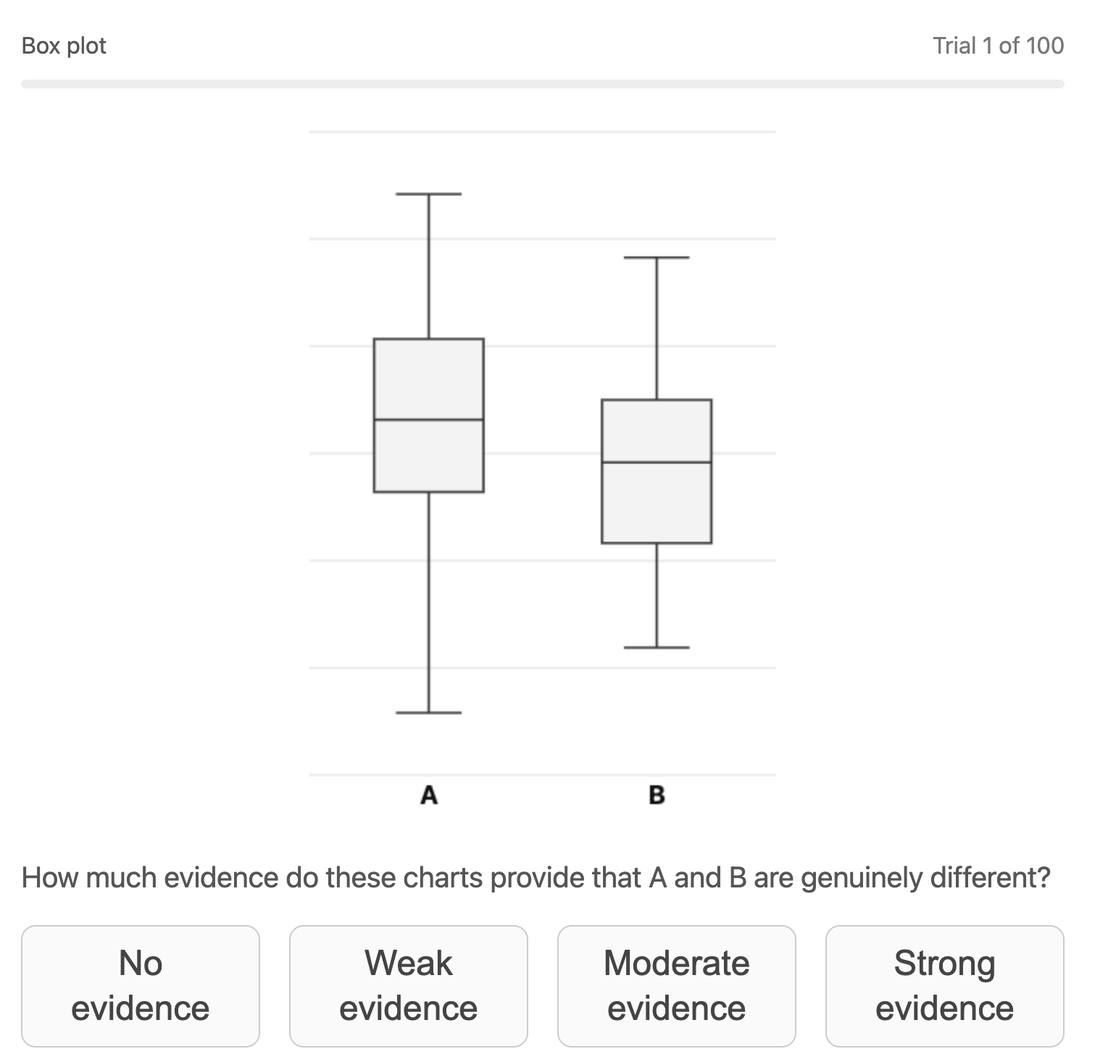
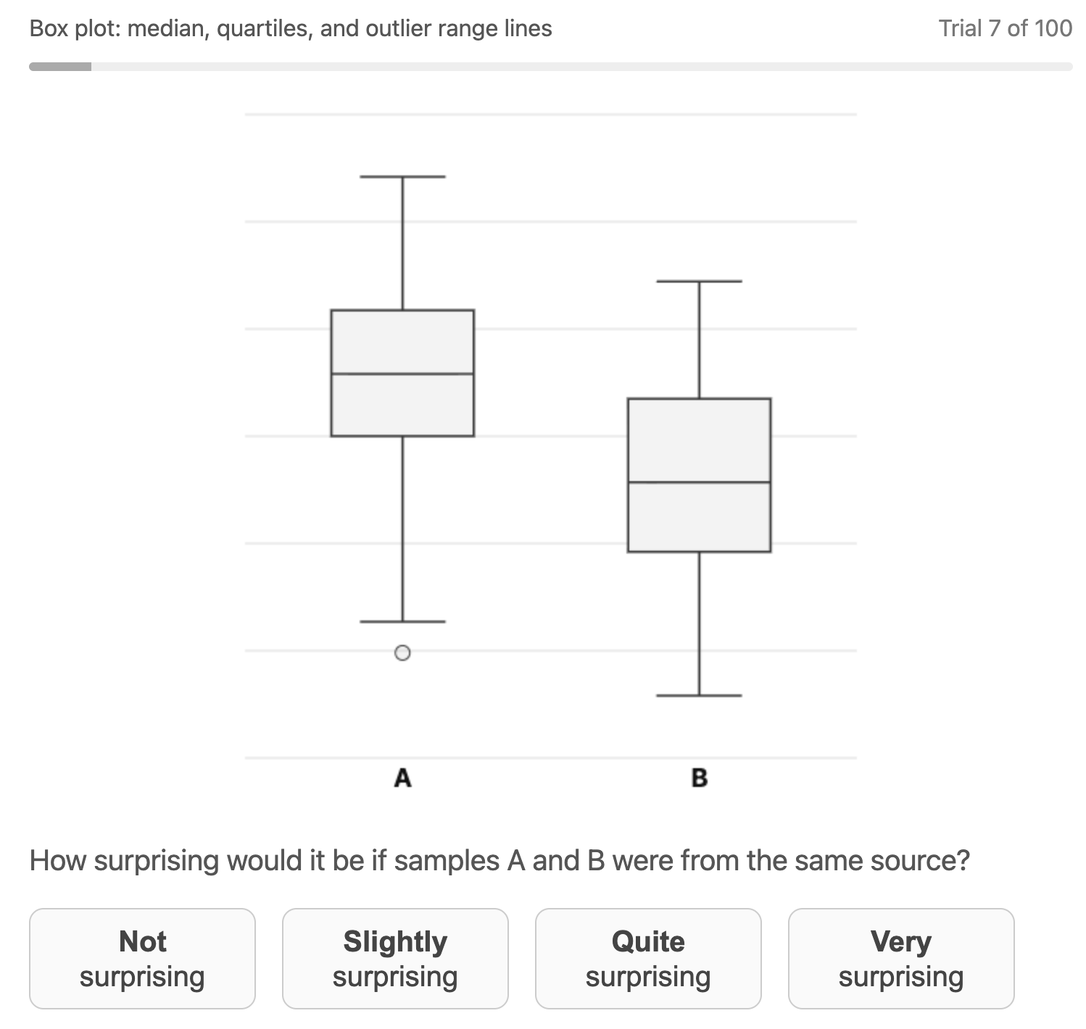
update design doc

diff --git a/doc/Design.md b/doc/Design.md
@@ -16,7 +16,6 @@ Author: Xan Gregg using Claude Code
 - For each chart type and signal type, how does the rating relate to the signal magnitude? Especially, is there a limit of perceptibility for each combination?
 - Do overlaid dots help or hinder perception of differences?
 - Do box plots detect bimodality as well as violin plots?
-- Without any hinting about outliers, will participants ignore them?
 
 There are interesting questions for almost any combination of factors.
 
@@ -33,74 +32,72 @@ Each trial presents a single canvas containing two statistical charts of the sam
 
 ### Chart Types
 
-Four chart type categories are included. Each participant is randomly assigned one variant from each category; the assigned variant is fixed for the entire session.
+Four chart type categories are included. Within each category, variants are either *solo* (appears alone; not mixed with other variants) or *non-solo* (all non-solo variants in a category are shown together). Which variant(s) a participant sees is randomly determined: if the randomly selected first variant is solo, only that variant is shown; otherwise all non-solo variants in the category are included. Solo vs. non-solo assignment is a between-subjects factor for categories where both types exist.
 
-| Category | Variant | Description                                                                                                                                                                                 |
-|----------|---------|---------------------------------------------------------------------------------------------------------------------------------------------------------------------------------------------|
-| Box | Box plot | Middle 50% shown as a rectangle with a median line. Whiskers extend to values within 1.5× the IQR; more extreme values shown as outlier dots.                                               |
-| Box | Box plot with dots | Same as box plot, with all individual data values overlaid as dots.                                                                                                                         |
-| Box | Range bar | Middle 50% shown as a rectangle with a wide median line. Thin lines extend to the full data range (no outlier trimming).                                                                    |
-| Bands | Central bands (66%, 90%, 99%) with median | Nested quantile bands: darkest contains middle 66% of values, next 90%, outer 99%. Median line shown. Outliers are not shown.                                                               |
-| Bands | Density bands (50%, 90%, 99%) with mode | HDR bands: darkest contains densest 50% of values, next 90%, outer 99%. Mode line shown; values outside the 99% band shown as dots. Bands may be disconnected for multimodal distributions. |
-| Bands | Density bands (5%, 50%, 90%) | HDR bands: darkest contains densest 5%, next 50%, outer 90%. Values outside the 90% band shown as dots. Bands may be disconnected.                                                          |
-| Bands | Density bands (33%, 67%, 100%) | HDR bands: darkest contains densest 33%, next 67%, outer band covers all remaining values. Bands may be disconnected.                                                                       |
-| Dot | Dot plot | Each dot represents one data value; dots are spread horizontally to reduce overlap (according to jitter factor).                                                                            |
-| Dot | Dot plot with median | Same as dot plot, with a horizontal line marking the median.                                                                                                                                |
-| Violin | Violin plot | Smooth symmetric outline traces the distribution shape; width encodes local density.                                                                                                        |
-| Violin | Violin plot with box | Violin outline with a box plot overlaid inside showing the median and middle 50% range.                                                                                                     |
-| Violin | Violin plot with dots | Violin outline with individual data values overlaid as dots within the shape.                                                                                                               |
-| Violin | Violin plot with median | Violin outline with a line marking the median.                                                                                                                                              |
+| Category | Variant | Solo | Description |
+|----------|---------|------|-------------|
+| Box | Box plot | — | Middle 50% shown as a rectangle with a median line. Whiskers extend to values within 1.5× the IQR; more extreme values shown as outlier dots. |
+| Box | Box plot with dots | — | Same as box plot, with all individual data values overlaid as dots. |
+| Box | Range bar | solo | Middle 50% shown as a rectangle with a wide median line. Thin lines extend to the full data range (no outlier trimming). |
+| Bands | Central bands (66%, 90%, 99%) with median | solo | Nested quantile bands: darkest contains middle 66% of values, next 90%, outer 99%. Median line shown. Outliers beyond 99% are not shown. |
+| Bands | Density bands (50%, 90%, 99%) with mode | solo | HDR bands: darkest contains densest 50% of values, next 90%, outer 99%. Mode line shown; values outside the 99% band shown as dots. Bands may be disconnected for multimodal distributions. |
+| Bands | Density bands (5%, 50%, 90%) | solo | HDR bands: darkest contains densest 5%, next 50%, outer 90%. Values outside the 90% band shown as dots. Bands may be disconnected. |
+| Bands | Density bands (33%, 67%, 100%) | solo | HDR bands: darkest contains densest 33%, next 67%, outer band covers all remaining values. Bands may be disconnected. |
+| Dot | Dot plot | — | Each dot represents one data value; dots are spread to reduce overlap (see Jitter). |
+| Dot | Dot plot with median | — | Same as dot plot, with a line marking the median. |
+| Violin | Violin plot | — | Smooth symmetric outline traces the distribution shape; width encodes local density. |
+| Violin | Violin plot with box | — | Violin outline with a box plot overlaid inside showing the median and middle 50% range. |
+| Violin | Violin plot with dots | — | Violin outline with individual data values overlaid as dots within the shape. |
+| Violin | Violin plot with median | — | Violin outline with a line marking the median. |
 
-All four chart type categories appear for every participant (within-subjects); which specific variant is shown within each category is randomly assigned (between-subjects).
+Since dot and violin categories have no solo variants, all participants see both dot variants and all four violin variants. For box, a participant sees either range bar alone or both non-solo box variants. For bands, exactly one solo variant is randomly selected per participant.
+
+### Trial Allocation
+
+Each participant completes exactly 100 trials. Trials are allocated across chart variants subject to two constraints: each chart type *category* receives at least 20 trials (`MIN_CATEGORY_TRIALS`), and each individual *variant* receives at most 20 trials (`MAX_VARIANT_TRIALS`). After the guaranteed minimums are assigned (balanced across variants within each category), the remaining trials are distributed by randomly sampling from eligible variants (those under the 20-trial cap). This gives multi-variant categories proportionally more total trials while keeping individual variant counts variable across participants.
 
 ### Jitter Types
 
-Jitter controls how dots are spread horizontally (assuming vertical charts of ease of this description) to reduce overlap. One jitter method is randomly assigned per participant and applied consistently to all dot-based chart types (including box or violin plots with overlaid dots).
+Jitter controls how dots are spread to reduce overlap in dot-based chart types (dot plots, and box or violin plots with overlaid dots). The jitter method is assigned **per trial** from a balanced pool: the four jitter types are cycled across all conditions and shuffled, so each method appears approximately equally often across all trials. A separate session-level jitter assignment (drawn once per participant) is used only for training page displays.
 
-| Jitter | Description                                                                                                                                             |
-|--------|---------------------------------------------------------------------------------------------------------------------------------------------------------|
+| Jitter | Description |
+|--------|-------------|
 | Random | Each dot is placed at a uniform random horizontal offset within a fixed half-width, with a small number of candidate positions tried to reduce overlap. |
-| Wilkinson | Dots at similar values are binned by proximity, then stacked symmetrically within each bin. Not precisely Wilkinson's algorithm,                        |
-| Beeswarm | Dots are placed one at a time, in ascending value order, at the horizontal position closest to center that does not overlap any already-placed dot.     |
-| Density random | Like random, but the horizontal range available to each dot scales with the local KDE density, keeping dots within the violin shape.                    |
+| Wilkinson | Dots at similar values are binned by proximity, then stacked symmetrically within each bin. Not precisely Wilkinson's algorithm. |
+| Beeswarm | Dots are placed one at a time, in ascending value order, at the horizontal position closest to center that does not overlap any already-placed dot. |
+| Density random | Like random, but the horizontal range available to each dot scales with the local KDE density, keeping dots within the violin shape. |
 
 ### Data Distributions
 
 The survey app supports up to three base distributions to generate the raw data for each trial. However, for the current study, only the normal distribution is used.
 
 | Distribution | Proportion of trials | Notes |
-|---|------------------|---|
-| Normal (Gaussian) | 100% (100/100)   | Standard parameterization |
-| Lognormal | 0% (0/100)       | Right-skewed; rendered on normalized scale |
-| Binomial | 0% (0/100)       | n = 10, p = 0.2 base; normalized to ~N(0,1) scale |
+|---|---|---|
+| Normal (Gaussian) | 100% (100/100) | Standard parameterization |
+| Lognormal | 0% (0/100) | Right-skewed; rendered on normalized scale |
+| Binomial | 0% (0/100) | n = 10, p = 0.2 base; normalized to ~N(0,1) scale |
 
 ### Signals
 
 A *signal* is a modification applied to one of the two groups to create a potentially detectable difference. Each trial draws one signal from the applicable distribution's signal pool using weighted random sampling. The null signal (no modification) is included in each pool. Signals with weight 0 are defined but excluded from sampling.
 
-Each signal has a *level* (null / weak / moderate / strong) used for alignment scoring on the completion page.
+**Normal distribution — 11 active signal types (weight > 0), total active weight = 85:**
 
-**Normal distribution — 15 active signal types (weight > 0):**
+| Signal type | Parameters | Level | Weight | Expected trials |
+|---|---|---|---|---|
+| Null | — | null | 10 | ~12 |
+| Location shift | Δ = 0.5 SD | weak | 5 | ~6 |
+| Location shift | Δ = 0.8 SD | moderate | 10 | ~12 |
+| Location shift | Δ = 1.1 SD | strong | 10 | ~12 |
+| Spread change | Factor = 1.5× | moderate | 10 | ~12 |
+| Spread change | Factor = 1.8× | strong | 10 | ~12 |
+| Skew | Skew-normal α = 5; median-centered, spread-normalized | moderate | 5 | ~6 |
+| Skew | Skew-normal α = 7; median-centered, spread-normalized | strong | 5 | ~6 |
+| Bimodal | Separation = 3.0 SD | moderate | 8 | ~9 |
+| Bimodal | Separation = 4.0 SD | strong | 8 | ~9 |
+| Bimodal | Separation = 5.0 SD | strong | 4 | ~5 |
 
-| Signal type | Parameters | Level | Weight |
-|---|---|---|---|
-| Null | — | null | 12 |
-| Location shift | Δ = 0.5 SD | weak | 5 |
-| Location shift | Δ = 0.8 SD | moderate | 10 |
-| Location shift | Δ = 1.1 SD | strong | 10 |
-| Location shift | Δ = 1.4 SD | strong | 5 |
-| Spread change | Factor = 1.2× | weak | 5 |
-| Spread change | Factor = 1.5× | moderate | 10 |
-| Spread change | Factor = 1.8× | strong | 5 |
-| Skew | Skew-normal α = 5; median-centered, spread-normalized (SD ≈ 1) | moderate | 5 |
-| Skew | Skew-normal α = 7; median-centered, spread-normalized (SD ≈ 1) | strong | 5 |
-| Bimodal | Separation = 2.0 SD | weak | 8 |
-| Bimodal | Separation = 3.0 SD | moderate | 8 |
-| Bimodal | Separation = 4.0 SD | strong | 8 |
-| Bimodal | Separation = 5.0 SD | strong | 2 |
-| Outlier | 1 high value at 4.0 SD magnitude | weak | 5 |
-
-**Lognormal distribution — 10 signal types:**
+**Lognormal distribution — 10 signal types (inactive, weight defined for future use):**
 
 | Signal type | Parameters |
 |---|---|
@@ -108,7 +105,7 @@ Each signal has a *level* (null / weak / moderate / strong) used for alignment s
 | Location | Ratio = 1.2, 1.3, 1.4, 1.5, 1.6 (5 levels) |
 | Spread | Factor = 1.2×, 1.4×, 1.6×, 1.8× (4 levels) |
 
-**Binomial distribution — 5 signal types:**
+**Binomial distribution — 5 signal types (inactive):**
 
 | Signal type | Parameters |
 |---|---|
@@ -117,22 +114,13 @@ Each signal has a *level* (null / weak / moderate / strong) used for alignment s
 
 ### Signal Assignment
 
-Signals are assigned using weighted random sampling. A pool of exactly 100 signal instances is constructed via the largest-remainder method applied to each signal's weight, then shuffled. This guarantees the total count per signal type is proportional to its weight, with each signal appearing either ⌊100 × w/W⌋ or ⌈100 × w/W⌉ times (where W = sum of all active weights = 103 for normal). Approximate expected counts for the normal distribution:
-
-| Signal type | Expected trials |
-|---|---|
-| Null | ~12 |
-| Location (all levels) | ~29 |
-| Spread (all levels) | ~19 |
-| Skew (all levels) | ~10 |
-| Bimodal (all levels) | ~25 |
-| Outlier | ~5 |
+Signals are assigned using weighted random sampling. A pool of exactly 100 signal instances is constructed via the largest-remainder method applied to each signal's weight, then shuffled. This guarantees the total count per signal type is proportional to its weight, with each signal appearing either ⌊100 × w/W⌋ or ⌈100 × w/W⌉ times.
 
 Signals are **not balanced within chart type**: a given signal may pair with one chart type more than another within a session, though this averages out across participants.
 
 ### Signal Group
 
-"Signal group" indicates which of the two displayed groups (A or B) receives the signal. Exactly 50 of each participant's 100 trials assign the signal to group A; 50 assign it to group B. This balance is enforced globally across all 100 trials via a shuffled binary assignment vector. Balance within chart type or distribution subsets is not explicitly enforced but is expected to be approximately 50/50 given 25 trials per chart type.
+"Signal group" indicates which of the two displayed groups (A or B) receives the signal. Exactly 50 of each participant's 100 trials assign the signal to group A; 50 assign it to group B. This balance is enforced globally across all 100 trials via a shuffled binary assignment vector.
 
 ### Participant Background
 
@@ -152,16 +140,17 @@ Before the main study begins, participants complete a brief self-report question
 
 All participants complete the same onboarding sequence before their first trial. The sequence is not adaptive and cannot be skipped. Steps proceed in this order:
 
-1. **Background questionnaire** — the familiarity and frequency questions above. The Continue button is disabled until all questions are answered.
-2. **Understanding Sampling (3 pages)** — introduces the concept that each chart shows a random sample from a larger source. Page 1 shows one source and one sample; page 2 shows one source and three samples to illustrate within-source variation; page 3 shows two sources with one sample each to illustrate between-source differences.
-3. **Chart Types** — an overview page showing thumbnail examples of all four assigned chart types, followed by one dedicated page per chart type explaining how to read it, with an example pair drawn from the same source. The training is only for the variants of the chart type that the participant will see in the study.
+1. **Background questionnaire** — the familiarity questions above. The Continue button is disabled until all questions are answered.
+2. **Understanding Sampling (3 pages)** — introduces the concept that each chart shows a random sample from a larger source. Page 1 shows one source and one sample; page 2 shows one source and three samples to illustrate within-source variation; page 3 shows two sources side by side followed by one sample from each, to illustrate between-source differences.
+3. **Chart Types** — an overview page showing thumbnail examples of all assigned chart type categories, followed by one dedicated page per unique chart type explaining how to read it, with an example pair drawn from the same source. For solo variants, the training shows the assigned variant. For non-solo variants, training shows the *plain* variant (marked `plain: true` in the catalog), which is the simplest form of that chart type. Pages are ordered to match the sequence in which each chart type first appears in the participant's randomized trial list.
 4. **Response scale** — explains the 4-point rating scale and its intended meaning.
 
 <figure style="text-align: center">
     <img src="../images/sampling2.png" width="400" alt="Second sampling training page">
-    <figcaption>Second sampling training page.</figcaption>                
-</figure>   
-The chart-type training pages are ordered to match the sequence in which each chart type first appears in that participant's randomized trial list. Additionally, each trial page shows a brief summary of the chart type details, such as specific cut-offs in use for band charts.
+    <figcaption>Second sampling training page.</figcaption>
+</figure>
+
+Each trial page shows a brief description of the specific chart variant in use (e.g., band cutoff percentages).
 
 ---
 
@@ -180,58 +169,78 @@ Participants respond on a 4-point ordinal scale:
 
 Response buttons are suppressed for 500 ms after each trial begins to reduce accidental and impulsive responses. Additionally, the button's hover highlight is disabled until the mouse is moved to reduce anchoring bias.
 
-In addition to the response and design factors, key summary statistics for each trial are also recorded. Though the entire trial data sets can be recovered from the seed, these measures are a convenience for analysis and reporting purposes. An analysis may prefer to use, for instance, the actual mean difference rather than the signal magnitude.
+In addition to the response and design factors, the full A and B data sets are stored with each trial result as `a_data` and `b_data` — integer arrays of length 50, scaled to 0–1000 over a ±5 SD range (invertible: value = i/100 − 5). Though the data sets can also be regenerated deterministically from the trial seed, storing them directly simplifies analysis.
 
 ---
 
 ## Design Structure
 
 ### Between-Subjects Factors
-Each participant is assigned a random combination of the following factors. The idea is to reduce training and ambiguity (some variants have similar appearances but different meanings).
 
 | Factor | Levels | Notes |
 |--------|--------|-------|
-| Chart variant | 1 per category, randomly assigned | Specific rendering option within each chart type category |
-| Display orientation | Vertical, Horizontal | Axis orientation is transposed between conditions |
-| Jitter method | Random, Wilkinson, Beeswarm, Density-random | Applies to dot plot rendering only |
+| Chart variant(s) | 1–2 per category, randomly assigned | Solo variants appear alone; non-solo variants appear together within a category |
 
 ### Within-Subjects Factors
 
 Each participant completes 100 trials presented in randomized order.
 
-| Factor | Levels | Trials per level          |
-|--------|--------|---------------------------|
-| Chart type | 4 | 25 each                   |
-| Distribution | Normal, Lognormal, Binomial | 100, 0, 0                 |
-| Signal type | 15 active (19 defined) | Random assignment per trial |
+| Factor | Levels | Trials per level |
+|--------|--------|-----------------|
+| Chart type category | 4 | ≥20 each (random allocation of extras) |
+| Jitter method | Random, Wilkinson, Beeswarm, Density-random | ~25 each (balanced pool, per-trial) |
+| Distribution | Normal, Lognormal, Binomial | 100, 0, 0 |
+| Signal type | 11 active (19 defined) | Weighted random assignment per trial |
 | Signal magnitude | Continuous / ordinal within type | Nested within signal type |
 | Signal group | A or B | 50 each (globally balanced) |
-
-Distribution and chart type are crossed within each participant: each combination of chart type × distribution appears with trial counts proportional to the distribution weights (normal: 25 trials per chart type; lognormal and binomial: 0 each).
 
 ---
 
 ## Randomization
 
-All randomization uses the mulberry32 pseudo-random number generator (32-bit LFSR). Each participant receives a random seed at first visit. All aspects of the design — chart type and variant assignments, orientation, jitter, trial order, signal draws, signalGroup assignments — are derived deterministically from that seed, ensuring full reproducibility from the participant seed alone.
+All randomization uses the mulberry32 pseudo-random number generator (32-bit LFSR). Each participant receives a random seed at first visit. All aspects of the design — chart type and variant assignments, jitter pool, trial order, signal draws, signal group assignments — are derived deterministically from that seed, ensuring full reproducibility from the participant seed alone.
 
 Data generation uses a fixed pool of 100 algorithmically screened seeds (DATA_SEEDS) that are shuffled separately per distribution and assigned to trials without replacement within a participant. With 100 seeds and at most 100 normal trials per participant, each base dataset appears at most once per participant.
 
-Seeds are selected by scanning integer multiples of 100,000 (starting at 10,100,000) and retaining those that pass two null-balance checks applied independently for both the normal and lognormal, if in use, distributions:
+Seeds are selected by scanning integer multiples of 100,000 (starting at 10,100,000) and retaining those that pass two null-balance checks:
 
-1. **Extremes check:** the difference between groups A and B in their maximum values, and separately in their minimum values, must each be less than a threshold fraction of the combined range (0.30 for normal, 0.40 for lognormal). This screens out seeds where one group's tail placement is deceptively extreme relative to the other.
-2. **Mean check (Cohen's d):** the standardized mean difference between groups A and B must satisfy |d| < 0.25, where d is computed using the pooled sample standard deviation. This threshold is distribution-agnostic and corresponds approximately to a Welch's t-statistic of 1.25 (two-tailed p ≈ 0.21). Seeds with a larger mean difference would look deceptively shifted under a null signal.
+1. **Extremes check:** the difference between groups A and B in their maximum values, and separately in their minimum values, must each be less than a threshold fraction of the combined range (0.30 for normal, 0.40 for lognormal).
+2. **Mean check (Cohen's d):** the standardized mean difference between groups A and B must satisfy |d| < 0.25, computed using the pooled sample standard deviation. This corresponds approximately to a Welch's t-statistic of 1.25 (two-tailed p ≈ 0.21).
 
 These criteria ensure that null-signal trials show no systematic group difference beyond natural random-sampling variation.
 
 ---
 
+## Completion Page Scoring
+
+A brief score summary is shown on the completion page, intended as participant entertainment rather than a formal measure.
+
+**Alignment score:** For each trial, the realized K-S statistic D is mapped to a continuous expected rating via piecewise-linear interpolation over the anchor points `(ks, expectedRating) = (0, 0.5), (0.05, 1), (0.17, 1.5), (0.26, 2.5), (0.34, 3.5), (0.44, 4.4), (1.0, 4.5)`. The anchors were chosen to align "quite" with a p-value of 0.05 and "very" with a p-value of 0.01 for K-S with n-50. A grace margin of 0.25 rating units is applied (no penalty within that range of the expected value). The alignment score is `1 − MSE / (max_error²)`, reported as a percentage.
+
+K-S thresholds between rating buckets: D < 0.17 → expected 1, 0.17–0.26 → 2, 0.26–0.34 → 3, ≥ 0.34 → 4. These thresholds are tunable pending calibration from pilot data.
+
+---
+
+## Inactive Components
+
+The following factors are implemented in code but not currently active in the study:
+
+| Component | Status | Notes |
+|-----------|--------|-------|
+| Display orientation | Fixed to vertical | Code supports horizontal (transposed axis); was previously a between-subjects factor. Orientation-aware wording in chart explanations is still dynamically generated. |
+| Lognormal distribution | Weight = 0 | Full signal set defined; can be reactivated via `DIST_REPS` in `config.js`. |
+| Binomial distribution | Weight = 0 | Partial signal set defined. |
+| Several signal types | Weight = 0 | Includes location Δ=1.4, spread ×1.2, skew α=±3 and α=−5, bimodal separation=2.0, all outlier variants. Defined in `design.js`; can be reactivated by setting weight > 0. |
+| Correlation scores | Computed but not displayed | Spearman ρ, Kendall τ-b, and Goodman-Kruskal γ between K-S values and ratings are computed at session end but hidden pending calibration. |
+
+---
+
 ## Data Quality
 
-Participants will be filtered based on attention checks to be determined after the pilot run, Basic ideas
-1. require reasonable responses for null and strong signals on average
-2. check some response patterns (repeats and sawtooths)
-3. check response times for rapid clicking
+Participants will be filtered based on attention checks to be determined after the pilot run. Basic ideas:
+1. Require reasonable responses for null and strong signals on average.
+2. Check some response patterns (repeats and sawtooths).
+3. Check response times for rapid clicking.
 
 ---
 
@@ -239,11 +248,18 @@ Participants will be filtered based on attention checks to be determined after t
 
 Not sure if response needs to be ordinal or treated linear (which I believe is common treatment for Likert scales).
 
-General plan is to collect enough samples so that between subjects effects will balance out but to also try a full factor random effects model.
+General plan is to collect enough samples so that between-subjects effects will balance out but to also try a full factor random effects model.
 
 Hoping to clarify after pilot runs. During pilot runs, signal magnitudes can be adjusted.
 
-**Primary comparison:** Response versus signal magnitude by various factors, especially chart type.
+**Modeling:** Conditioned on the input factors, the rating response can be predicted by:
+1. the injected signal magnitude: assumes only one signal at a time and can be swamped by randomization
+2. the computed signal magnitude (from a_data and b_data): not trivial for all signals
+3. P-values based on each signal (means difference, unequal variances, and normality testing)
+4. an overall computed difference measure:
+   1. Kolmogorov-Smirnov distance between the ECDFs
+   1. a combination of the above p-values
+
 
 ---
 
@@ -251,29 +267,21 @@ Hoping to clarify after pilot runs. During pilot runs, signal magnitudes can be 
 
 ### Hot Takes
 1. Bimodal signals are detected at lower magnitudes with box plots than with violin plots.
-1. Adding dots to violin and box plots decrease response quality, diminishing surprise response.
-1. Beeswarm jitter performs worse than the others, exaggerating surprise response.
+1. Adding dots to violin and box plots decreases response quality, diminishing surprise response.
+1. Beeswarm jitter performs worse than the other jitter types, exaggerating surprise response.
 1. Though least familiar, the bands charts are no worse than the others.
-1. Density bands charts are better that all others at bimodal data.
+1. Density bands charts are better than all others at bimodal data.
 
 ### Cold Takes
-1. Chart orientation doesn't affect response quality.
+1. *If orientation is in the study:* Chart orientation doesn't affect response quality.
 1. Skew is the hardest strong signal to detect.
-1. Range Bar makes the mild outlier signal look strongish.
-
+1. *If the outlier signal is in the study:* Range Bar makes the mild outlier signal look strongish.
+1. Participant surprise underestimates statistical significance (That is, statistically differences with p-value of 0.05 will average closer to "slight" surprise than "quite" or "very")
 
 ---
 
 ## Design Limitations
 
-1. **Each participant only sees a small number of chart types.** That makes it harder to analyze chart effects since it's between-participant, but it makes the training simpler (each participant only has to learn one variant of each of the four chart types), which hopefully makes the response quality better, and it's consistent with real world chart usage by an analyst.
-1. **Same for jitter types**
-1. **Anchoring could be a problem** That is, where one response is biased by the previous response. Either a tendency to rate the same, or a relative rating. The usual fixes seem worse: re-arranging response buttons, required pauses between questions, ...
-
----
-
-## Open Questions
-
-1. How to frame the main question and with what response scale? The survey aims to explore the basic EDA question: "Is this anything?" The framing can be switched via the `QUESTION_FRAMING` constant in `question.js` between `"surprise"` (current) and `"evidence"`. **Status quo**: framed as how surprising it would be if both samples came from the same source.
-2. How many response scale items? The main feature of the question is that it's asymmetric. In the spirit of the null hypothesis, there is only evidence for a difference, not evidence for similarity. **Status quo**: 4 levels: not/slightly/quite/very surprising.
+1. **Some chart types are not seen by all participants.** That makes it harder to analyze chart effects since it's between-participant, but it makes the training simpler (each participant only has to learn one basic form of each of the four chart types), which hopefully makes the response quality better.
+1. **Anchoring could be a problem.** That is, one response can be biased by the previous response — either as a tendency to not move the mouse, or as a relative rating. The usual fixes seem worse: re-arranging response buttons, required pauses between questions, ...
 
